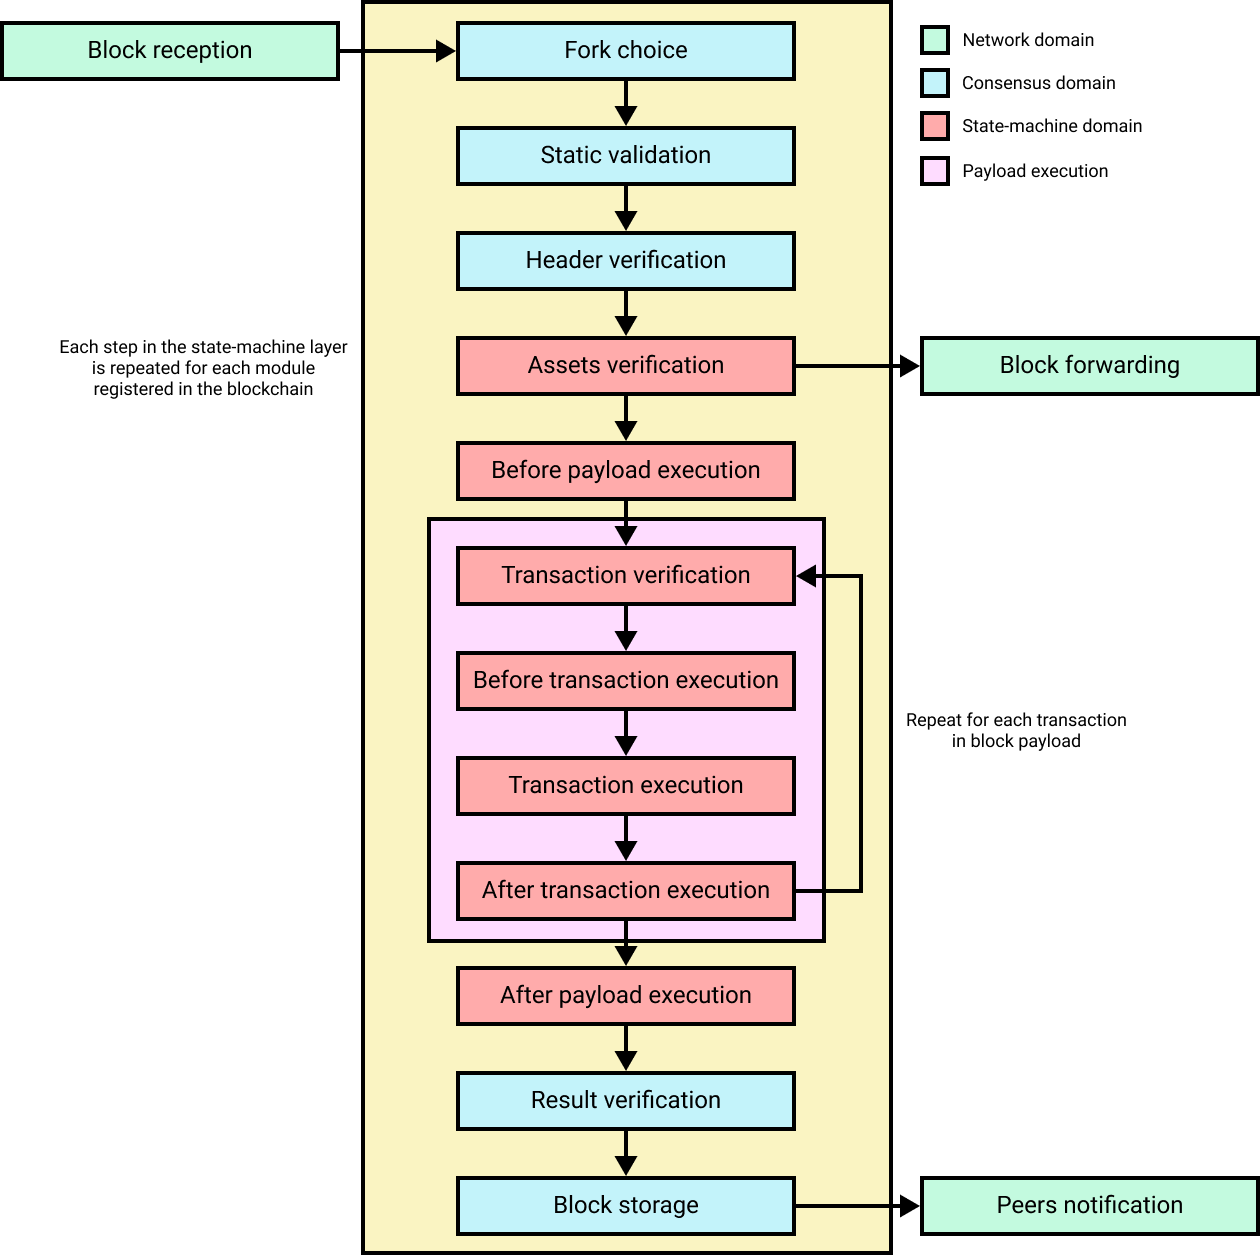
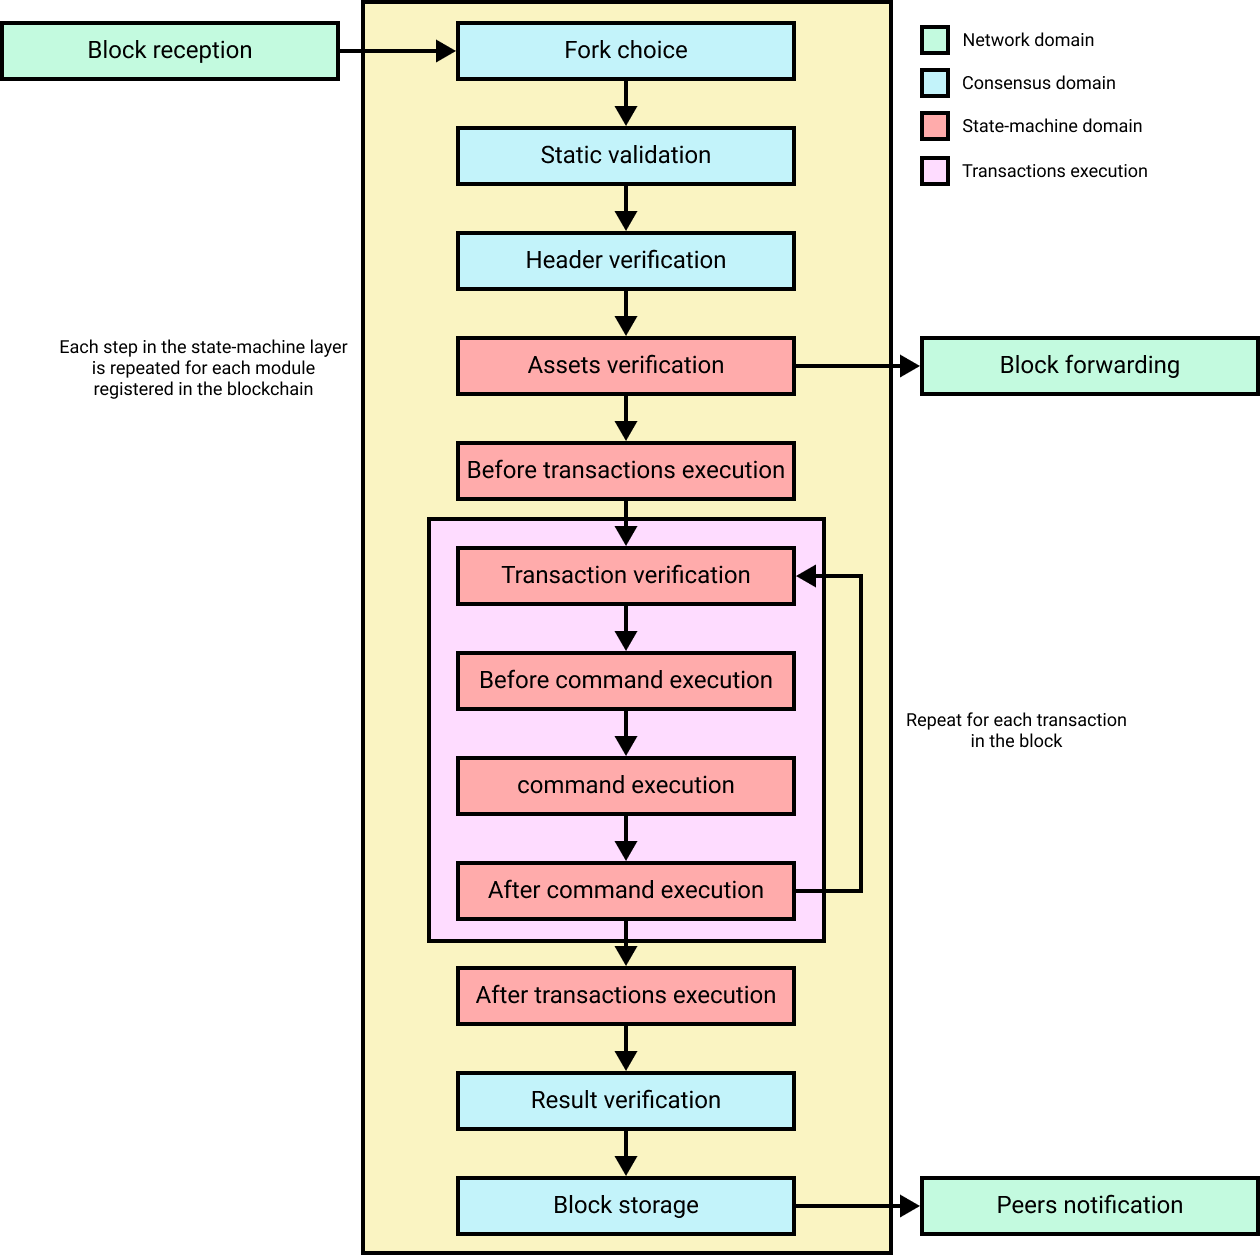
Update image and text to new hook names

diff --git a/proposals/lip-update_block_schema_and_block_processing.md b/proposals/lip-update_block_schema_and_block_processing.md
@@ -14,7 +14,7 @@ Requires: 0040,
 
 ## Abstract
 
-This LIP changes the structure of a block, introducing the assets property alongside the block header and payload.
+This LIP changes the structure of a block, introducing the assets property alongside the block header and transactions.
 The block header schema is updated to add new properties introduced by several other LIPs.
 We clarify the mechanism by which modules can include data in the block assets and specify the validation of each block header property. Furthermore, we list the steps that are part of the block processing.
 
@@ -24,9 +24,11 @@ This LIP is licensed under the [Creative Commons Zero 1.0 Universal](https://cre
 
 ## Motivation
 
-The first change proposed by this LIP is to introduce a new block property, the assets, and to update the block schema accordingly. 
+The first change proposed by this LIP is to introduce a new block property, the assets. 
 This property is an array of objects containing data injected by the modules registered in the chain during the block creation. 
 This change clarifies the general procedure by which modules insert extra data in a block.
+The block assets, together with the transactions, form the block payload.
+The block schema is updated accordingly.
 
 
 The second change is to update the block header schema.
@@ -97,7 +99,7 @@ For the rest of this proposal we define the following constants.
 
 | Name          | Type    | Value       | Description |
 | ------------- |---------| ------------| ------------|
-| `MAX_PAYLOAD_SIZE_BYTES` | integer | TBD | The max size of a block payload in bytes.|
+| `MAX_TRANSACTIONS_SIZE_BYTES` | integer | TBD | The max size of a block transactions in bytes.|
 | `MAX_ASSET_DATA_SIZE_BYTES` | integer | TBD | The max size of an assets entry in bytes.|
 | `SIGNATURE_LENGTH_BYTES`| integer | 64 | The length of a Ed25519 signature.|
 
@@ -109,7 +111,7 @@ Calling a function `fct` from another module `module` is represented by `module.
 
 <img src="lip-Update_block_schema_and_block_processing/stages.png" width="70%">
 
-*Figure 1: A schematic depiction of the various stages of a block processing. The steps performed in the consensus domain are indicated by blue boxes, while the steps performed in the state-machine domain are indicated by red boxes. Within the state-machine domain, the payload processing is indicated by purple boxes. The network domain is indicated by green boxes.*
+*Figure 1: A schematic depiction of the various stages of a block processing. The steps performed in the consensus domain are indicated by blue boxes, while the steps performed in the state-machine domain are indicated by red boxes. Within the state-machine domain, the transactions processing is indicated by purple boxes. The network domain is indicated by green boxes.*
 
 In this section, we describe the various processing stages of a block.
 Note that a genesis block follows different rules specified in the ["Update genesis block schema and processing" LIP][research:genesis-block]. 
@@ -120,8 +122,8 @@ The block processing is split between the network, consensus, and state-machine 
 - The consensus domain applies the [fork choice rule][lip-0014#fork-choice] and checks the properties contained in the block header.
 - The state-machine checks and applies the module-level logic. 
 All the steps that are part of the state-machine domain are repeated for each module registered in the chain. 
-The payload processing is performed on the block payload as part of the state-machine processing.
-The four steps in the payload processing are repeated for each transaction inn the payload.
+The transactions processing is performed on the transactions contained in the block as part of the state-machine processing.
+The four steps in the transactions processing are repeated for each transaction.
 
 The full processing of a block is organized as follows. 
 
@@ -132,13 +134,13 @@ The full processing of a block is organized as follows.
 4. **Header verification**: Properties that require access to the state store *before* the block has been executed are verified in this stage.
 In particular, these checks are performed *before* the state transitions implied by the modules are processed.
 5. **Assets verification**: Each module verifies the respective entry in the block assets. If any check fails, the block is discarded and has no further effect.
-6. **Block forwarding**: After the initial checks, the block is forwarded to a subset of peers.
-7. **Before payload execution**: Each module can process protocol logic *before* executing the transactions contained in the block payload. 
+6. **Block forwarding**: After the initial checks, the full block is forwarded to a subset of peers.
+7. **Before transactions execution**: Each module can process protocol logic *before* executing the transactions contained in the block. 
 8. **Transaction verification**: The transaction is verified, possibly by accessing the state store. If the verification fails, the transaction is invalid and the whole block is discarded.
-9. **Before transaction execution**: Each module processes protocol logic *before* the transaction is executed. 
-10. **Transaction execution**: Commands belonging to the module (i.e. with `moduleID` property matching the module ID) are executed.
-11. **After transaction execution**: Each module can process protocol logic *after* the transaction has been executed. 
-12. **After payload execution**: Each module can process protocol logic *after* the transactions contained in the block payload have been executed.
+9. **Before command execution**: Each module processes protocol logic *before* the command contained in the transaction is executed. 
+10. **Command execution**: Commands belonging to the module (i.e. with `moduleID` property matching the module ID) are executed.
+11. **After command execution**: Each module can process protocol logic *after* the command contained in the transaction has been executed. 
+12. **After transactions execution**: Each module can process protocol logic *after* the transactions contained in the block have been executed.
 13. **Result verification**: Properties that require access to the state store *after* the block has been executed are verified. In particular, this includes the properties that can be verified only after the state transitions implied by the block execution have been performed.
 14. **Block storage**: The block is persisted into the database.
 15. **Peers notification**: Other peers in the P2P network are notified of the new block.
@@ -152,13 +154,13 @@ Blocks are serialized and deserialized accordingly to the following JSON schema.
 ```java
 blockSchema = {
   "type": "object",
-  "required": ["header", "payload", "assets"],
+  "required": ["header", "transactions", "assets"],
   "properties": {
     "header": {
       "dataType": "bytes",
       "fieldNumber": 1
     },
-    "payload": {
+    "transactions": {
       "type": "array",
       "fieldNumber": 2,
       "items": {
@@ -181,7 +183,7 @@ blockSchema = {
 The block is validated in the [static validation stage](#block-processing-stages) as follows:
 
 - **Static validation**:
-  - Check that the total size of the serialized transactions contained in the block payload is at most `MAX_PAYLOAD_SIZE_BYTES`.
+  - Check that the total size of the serialized transactions contained in the block is at most `MAX_TRANSACTIONS_SIZE_BYTES`.
 
 #### Block ID
 
@@ -201,7 +203,7 @@ blockID():
 
 ### Block Assets
 
-This LIP introduces a new block property, the block assets, which in addition with the header and the payload forms the complete block. 
+This LIP introduces a new block property, the block assets, which in addition with the header and the transactions forms the complete block. 
 
 
 #### JSON Schema
@@ -422,13 +424,13 @@ verifyGeneratorAddress():
 
 ##### Transaction Root
 
-The [transaction root][lip-32] is the root of the Merkle tree built from the ID of the transactions contained in the block payload.
+The [transaction root][lip-32] is the root of the Merkle tree built from the ID of the transactions contained in the block.
 It is validated by calling the `validateTransactionRoot` function.
 This function returns a boolean, indicating the success of the check.
 
 ```python
 validateTransactionRoot():
-  transactionIDs = [transactionID(trs) for trs in block.payload]
+  transactionIDs = [transactionID(trs) for trs in block.transactions]
   return block.header.transactionRoot == merkleRoot(transactionIDs)
 ```
 
